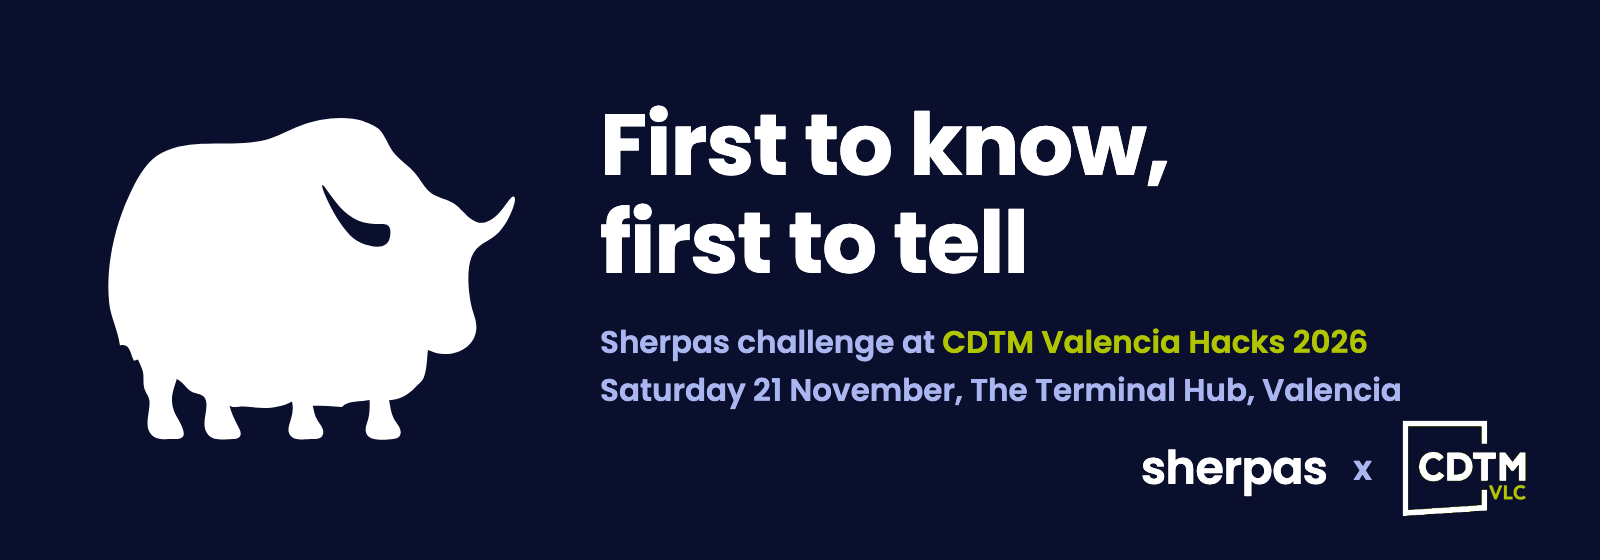
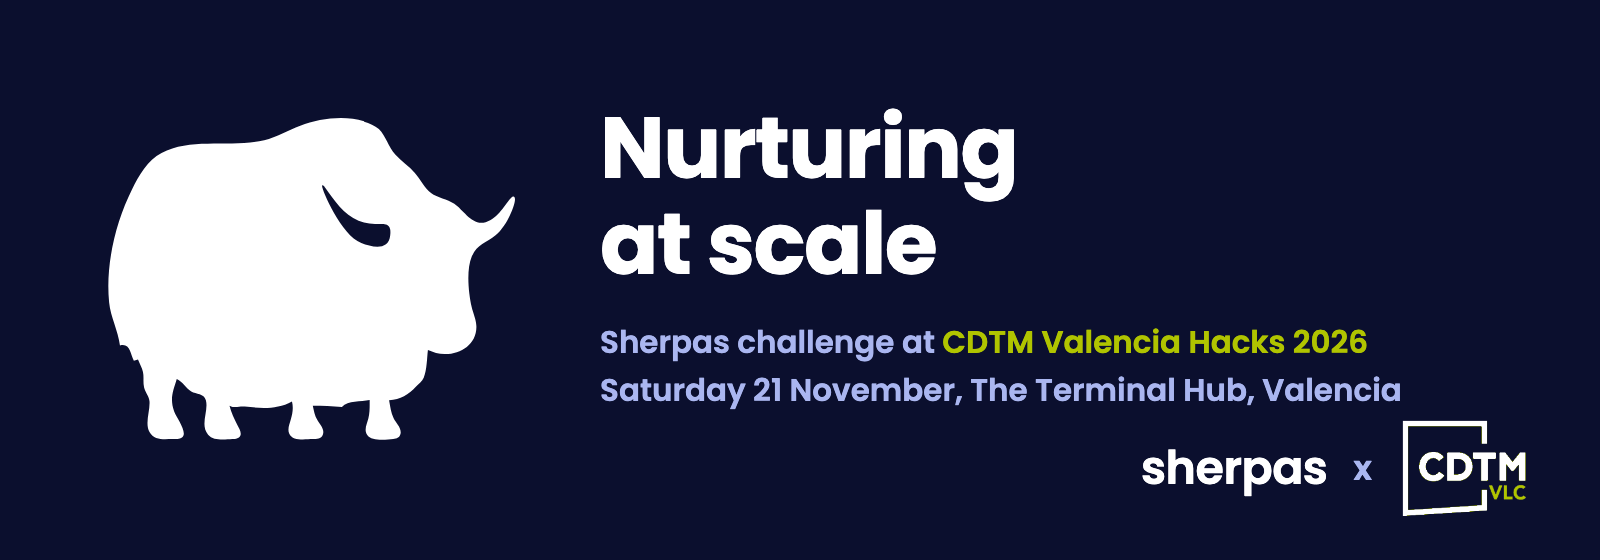
Challenge renamed: Nurturing at scale

Changed region(s): [[0.375, 0.1821, 0.75, 0.4857]]

diff --git a/README.md b/README.md
@@ -1,8 +1,8 @@
 <p align="center">
-  <img src="assets/banner.png" alt="First to know, first to tell. Sherpas challenge at CDTM Valencia Hacks 2026, Saturday 21 November, The Terminal Hub, Valencia" width="100%">
+  <img src="assets/banner.png" alt="Nurturing at scale. Sherpas challenge at CDTM Valencia Hacks 2026, Saturday 21 November, The Terminal Hub, Valencia" width="100%">
 </p>
 
-# First to know, first to tell
+# Nurturing at scale
 
 **Sherpas challenge at CDTM Valencia Hacks 2026. Saturday 21 November 2026, The Terminal Hub, Valencia**
 
@@ -47,7 +47,7 @@ Sherpas Wealth is an AI platform for financial advisors in the United States ([s
 | 2 | **Build the plan** | Solved by Sherpas: a narrated plan with an overview, advice area by area, a living map of their finances year by year, and concrete strategies |
 | 3 | **Keep the family close**: after the plan, the relationship goes on for years | **This is your challenge** |
 
-## The challenge: nurturing at scale
+## The challenge
 
 **A financial advisor looks after around 150 families. Each one wants to feel like the only one.**
 
